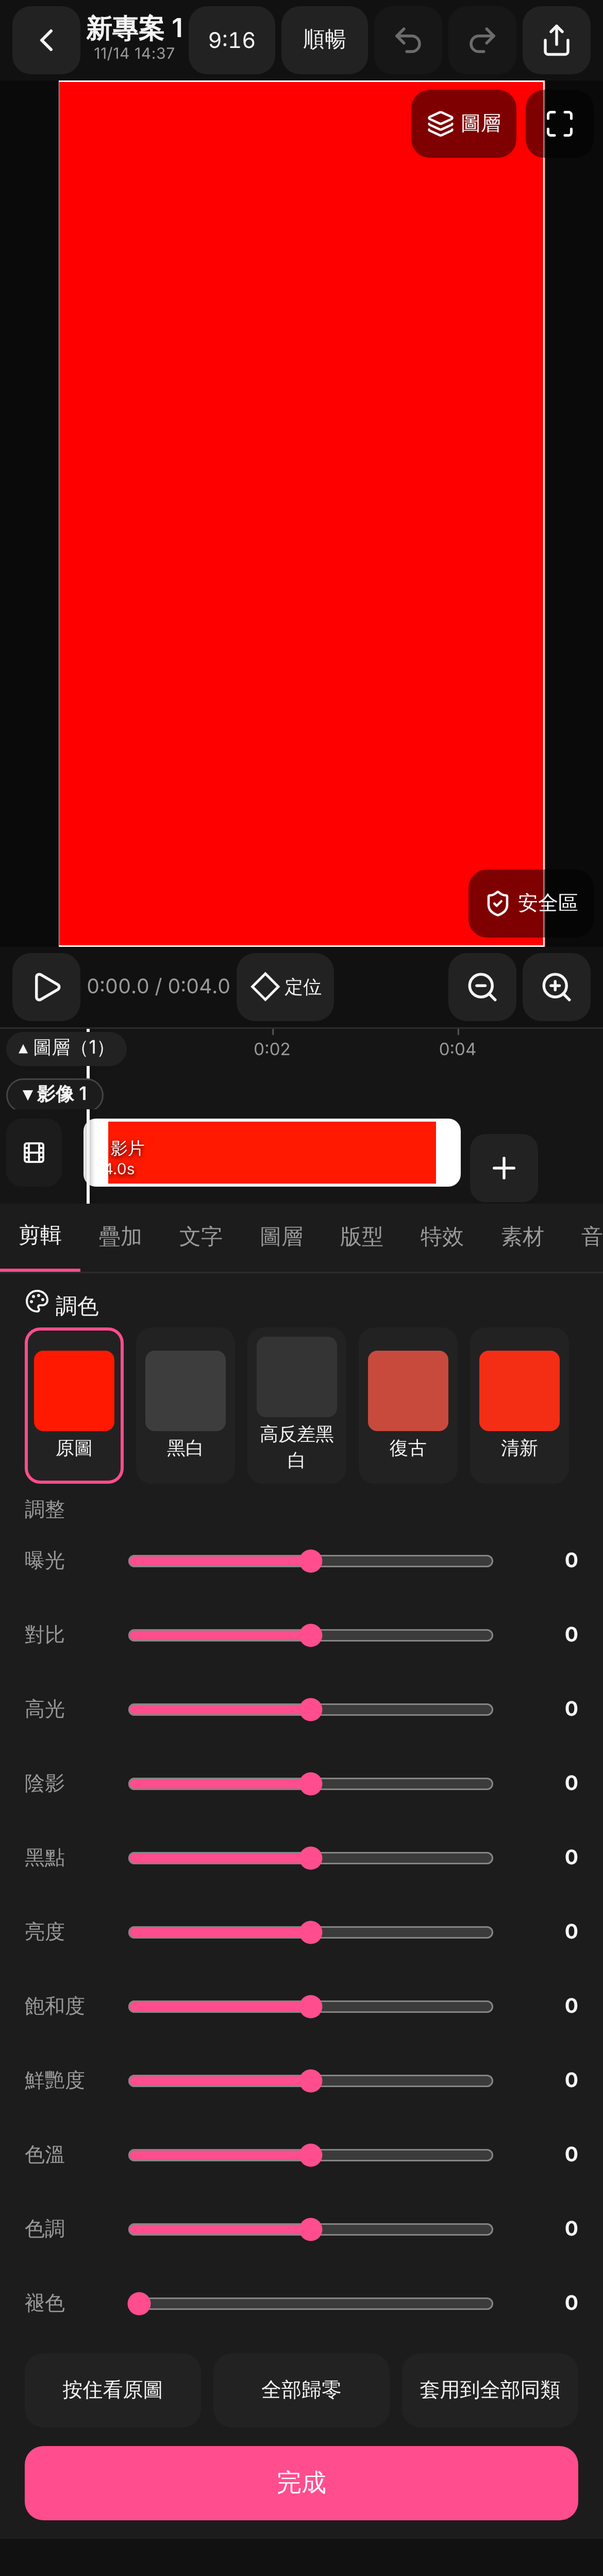
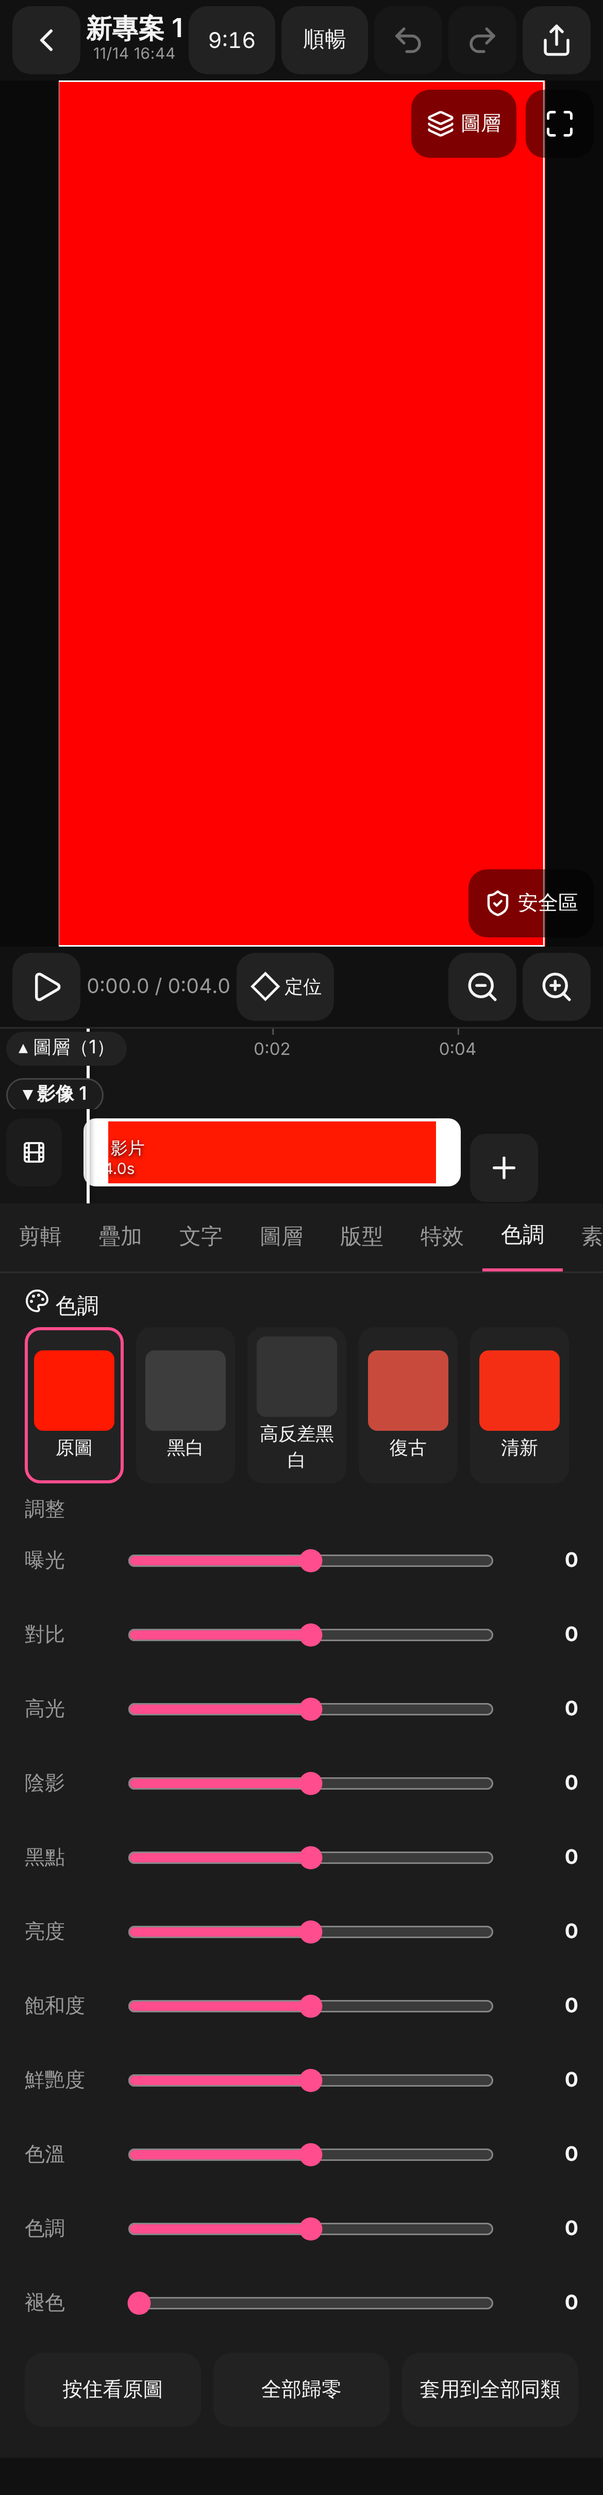
V5/V6 色調獨立分頁、特效圖例用選取中的顏色
Claude-Session: https://claude.ai/code/session_019agY7otd5feanTroznJ55n

diff --git a/src/app/editor/Toolbar.tsx b/src/app/editor/Toolbar.tsx
@@ -11,6 +11,7 @@ import { LayoutTab } from './tabs/LayoutTab';
 import { EffectTab } from './tabs/EffectTab';
 import { OverlayTab } from './tabs/OverlayTab';
 import { TABS, type Panel, type Tab } from './tabs/shared';
+import { ColorTab } from './tabs/ColorTab';
 import { TextTab } from './tabs/TextTab';
 
 export type { Tab } from './tabs/shared';
@@ -20,6 +21,8 @@ export type { Tab } from './tabs/shared';
  * 其他分頁（疊加、素材、版型、圖層）保持原樣：在那裡加東西時會自動選取新的，不應該被帶走。
  */
 export function tabForSelection(current: Tab, kind: 'text' | 'audio' | 'media'): Tab {
+  // 色調分頁：選別的影片、照片、貼圖、字卡都留在色調分頁（音樂沒有色調，才切走）
+  if (current === 'color' && kind !== 'audio') return current;
   if (kind === 'text') return 'text';
   if (kind === 'audio') return 'audio';
   return current === 'text' || current === 'audio' ? 'edit' : current;
@@ -129,6 +132,7 @@ export function BottomBar({
       {!collapsed && tab === 'layers' && <LayersTab />}
       {!collapsed && tab === 'layout' && <LayoutTab found={found} />}
       {!collapsed && tab === 'effect' && <EffectTab found={found} />}
+      {!collapsed && tab === 'color' && <ColorTab found={found} />}
       {!collapsed && tab === 'assets' && <AssetsTab />}
       {!collapsed && tab === 'audio' && <AudioTab found={found} panel={panel} setPanel={setPanel} />}
     </div>

diff --git a/src/app/editor/tabs/KeyframePanel.tsx b/src/app/editor/tabs/KeyframePanel.tsx
@@ -5,7 +5,7 @@ import { useUI } from '../../../store/uiStore';
 import { Slider } from '../../../ui/Slider';
 
 /**
- * 定位細部調整：位置（X、Y，可以放到畫面外）。調色在「剪輯」›「調色」（有定位時也能漸變）。有定位時，這裡改的是「播放頭這個時間」的定位（沒有就自動新增一個），
+ * 定位細部調整：位置（X、Y，可以放到畫面外）。色調在「色調」分頁（有定位時也能漸變）。有定位時，這裡改的是「播放頭這個時間」的定位（沒有就自動新增一個），
  * 兩個定位之間線性漸變；沒有定位時改物件本身。item 是「這個時間」的樣子（已套用定位）。
  */
 export function KeyframePanel({ item, project }: { item: Item; project: Project }) {
@@ -43,9 +43,9 @@ export function KeyframePanel({ item, project }: { item: Item; project: Project 
         <button
           className="chip"
           data-testid="kf-to-color"
-          onClick={() => useUI.setState({ requestTab: 'edit' })}
+          onClick={() => useUI.setState({ requestTab: 'color' })}
         >
-          調色：到「剪輯」›「調色」
+          色調：到「色調」分頁
         </button>
         <button
           className="chip"

diff --git a/src/app/editor/tabs/TextTab.tsx b/src/app/editor/tabs/TextTab.tsx
@@ -1,6 +1,3 @@
-import { useState } from 'react';
-import { ColorPanel } from '../ColorPanel';
-import { useProjectStore } from '../../../store/projectStore';
 import { addText } from '../../../store/actions';
 import { useUI } from '../../../store/uiStore';
 import { TextPanel } from '../TextPanel';
@@ -8,8 +5,6 @@ import type { Found } from './shared';
 
 export function TextTab({ found }: { found: Found }) {
   const player = useUI((s) => s.player);
-  const project = useProjectStore((s) => s.project)!;
-  const [color, setColor] = useState(false);
   const item = found?.item.type === 'text' ? found.item : null;
   const add = () => addText(player?.time ?? 0);
   return (
@@ -17,10 +12,6 @@ export function TextTab({ found }: { found: Found }) {
       {item ? (
         <>
           <TextPanel item={item} onAdd={add} onAddShape={() => addText(player?.time ?? 0, true)} />
-          <button className="btn done" data-testid="text-color-btn" onClick={() => setColor((v) => !v)}>
-            {color ? '收起調色' : '調色（亮度、飽和度、色調組合…）'}
-          </button>
-          {color && <ColorPanel item={item} project={project} />}
         </>
       ) : (
         <>

diff --git a/src/app/editor/tabs/EditTab.tsx b/src/app/editor/tabs/EditTab.tsx
@@ -11,7 +11,6 @@ import {
   Scissors,
   Trash2,
   Volume2,
-  Palette,
 } from 'lucide-react';
 import { isVideoItem, visibleLayers } from '../../../engine/timeline';
 import type { Item } from '../../../model/types';
@@ -100,7 +99,6 @@ export function EditTab({
     if (p === 'speed' && s.type === 'image') return toast('照片不能變速');
     if (p === 'speed' && s.type === 'audio') return toast('音樂不能變速');
     if (p === 'volume' && s.type === 'image') return toast('照片沒有聲音');
-    if (p === 'color' && s.type === 'audio') return toast('音樂沒有畫面，不能調色');
     if (p === 'trim' && s.type === 'image') return toast('照片沒有素材區段，請拖時間軸上的把手調長度');
     setPanel(p);
   };
@@ -127,7 +125,6 @@ export function EditTab({
           startCrop(s.id);
         }}
       />
-      <ToolButton icon={Palette} label="調色" onClick={() => openPanel('color')} />
       <ToolButton icon={Gauge} label="變速" onClick={() => openPanel('speed')} />
       <ToolButton icon={Volume2} label="音量" onClick={() => openPanel('volume')} />
       <ToolButton

diff --git a/src/app/editor/tabs/ClipPanel.tsx b/src/app/editor/tabs/ClipPanel.tsx
@@ -5,7 +5,6 @@ import { editItem } from '../../../store/actions';
 import { setTrackItems, useProjectStore } from '../../../store/projectStore';
 import { toast } from '../../../store/uiStore';
 import { Slider } from '../../../ui/Slider';
-import { ColorPanel } from '../ColorPanel';
 import { TrimSheet } from '../TrimSheet';
 import { SPEEDS, type Found, type Panel } from './shared';
 
@@ -31,16 +30,6 @@ export function ClipPanel({
     if (asset)
       return <TrimSheet item={selected} asset={asset} track={found.track} onClose={() => setPanel(null)} />;
   }
-
-  if (panel === 'color' && selected && isVideoItem(selected))
-    return (
-      <div className="panel" role="group" aria-label="調色">
-        <ColorPanel item={selected} project={project} />
-        <button className="btn primary done" onClick={() => setPanel(null)}>
-          完成
-        </button>
-      </div>
-    );
 
   if (panel && selected && isVideoItem(selected)) {
     const asset = project.assets.find((a) => a.id === selected.assetId);

diff --git a/src/app/editor/tabs/shared.tsx b/src/app/editor/tabs/shared.tsx
@@ -3,8 +3,8 @@ import { findItem } from '../../../engine/timeline';
 import { BLEND_LABELS } from '../../../engine/geometry';
 import type { BlendMode } from '../../../model/types';
 
-export type Tab = 'edit' | 'overlay' | 'text' | 'layers' | 'layout' | 'effect' | 'assets' | 'audio';
-export type Panel = 'speed' | 'volume' | 'trim' | 'color' | null;
+export type Tab = 'edit' | 'overlay' | 'text' | 'layers' | 'layout' | 'effect' | 'color' | 'assets' | 'audio';
+export type Panel = 'speed' | 'volume' | 'trim' | null;
 export type Found = ReturnType<typeof findItem>;
 
 export const TABS: { id: Tab; label: string }[] = [
@@ -14,6 +14,7 @@ export const TABS: { id: Tab; label: string }[] = [
   { id: 'layers', label: '圖層' },
   { id: 'layout', label: '版型' },
   { id: 'effect', label: '特效' },
+  { id: 'color', label: '色調' },
   { id: 'assets', label: '素材' },
   { id: 'audio', label: '音訊' },
 ];

diff --git a/src/app/editor/tabs/ColorTab.tsx b/src/app/editor/tabs/ColorTab.tsx
@@ -1,0 +1,20 @@
+import { useProjectStore } from '../../../store/projectStore';
+import { ColorPanel } from '../ColorPanel';
+import type { Found } from './shared';
+
+/** 色調分頁：選到影片、照片、貼圖、字卡就顯示色調面板（色調組合、11 條調整滑桿…） */
+export function ColorTab({ found }: { found: Found }) {
+  const project = useProjectStore((s) => s.project)!;
+  const item = found && found.item.type !== 'audio' ? found.item : null;
+  return (
+    <div className="panel color-tab" data-testid="color-tab">
+      {item ? (
+        <ColorPanel item={item} project={project} />
+      ) : (
+        <p className="hint">
+          先在時間軸點一個影片、照片、貼圖或字卡，再選色調組合（黑白、復古、清新…）或調亮度、飽和度。
+        </p>
+      )}
+    </div>
+  );
+}

diff --git a/e2e/helpers.ts b/e2e/helpers.ts
@@ -151,7 +151,7 @@ export const exportFrame = async (page: Page, t: number, pts: [number, number][]
 /** 切到底部分頁 */
 export async function openTab(
   page: Page,
-  name: '剪輯' | '疊加' | '文字' | '圖層' | '版型' | '特效' | '素材' | '音訊',
+  name: '剪輯' | '疊加' | '文字' | '圖層' | '版型' | '特效' | '色調' | '素材' | '音訊',
 ) {
   const tab = page.locator('.tabs').getByRole('tab', { name, exact: true }); // 只找底部分頁列（文字面板裡也有叫「文字」的小分頁）
   // 點「目前的分頁」會收合面板，所以已經在這個分頁且展開時就不用再點
